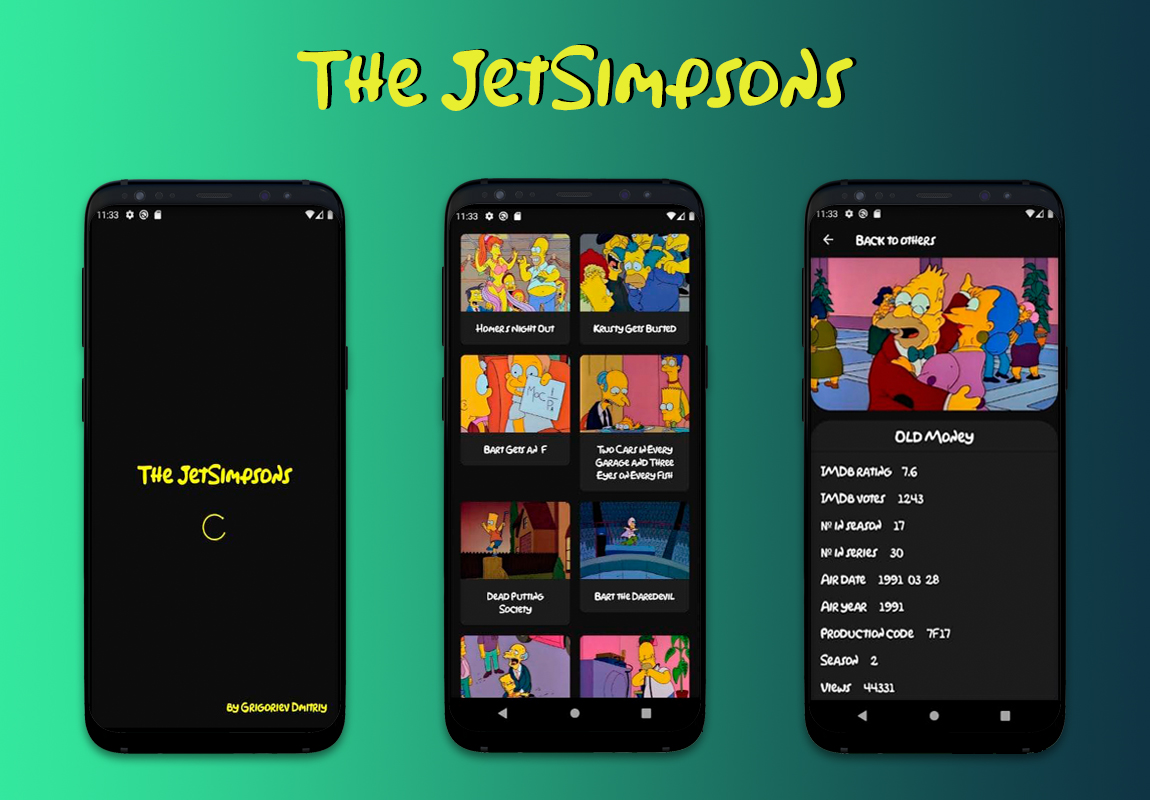
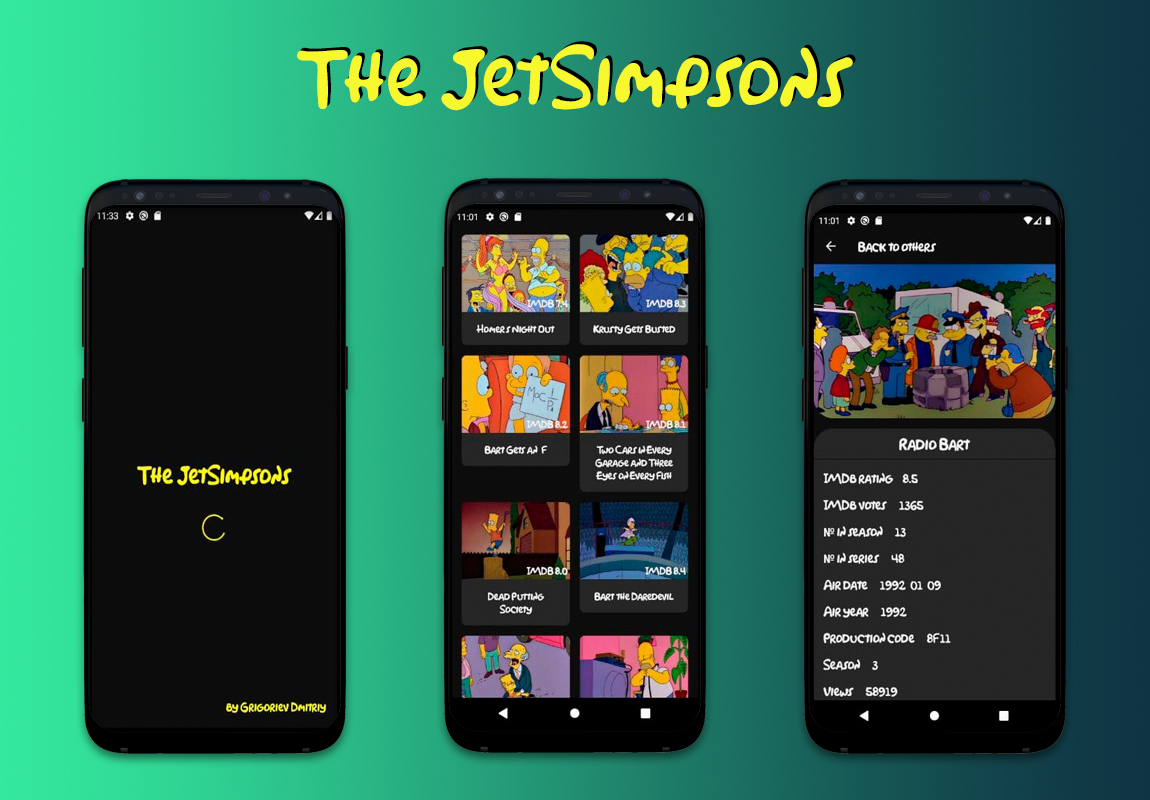
IMDB rating added

diff --git a/app/src/main/java/com/an9ar/jetsimpsons/ui/DSColors.kt b/app/src/main/java/com/an9ar/jetsimpsons/ui/DSColors.kt
@@ -10,13 +10,15 @@ object DSColors {
     val background = Color(0xFFE7E7E7)
     val backgroundReverse = Color(0xFF141414)
     val card = Color(0xFFFFFFFF)
-    val cardReverse = Color(0xFF1E1E1E)
+    val cardReverse = Color(0xFF252525)
     val textAccent = Color(0xFFFeFB1F)
     val text = Color(0xFF192038)
     val textReverse = Color(0xFFEEEEEE)
     val success = Color(0xFF00E096)
     val warning = Color(0xFFFFAA00)
     val error = Color(0xFFFF3D71)
+    val light = Color(0xFFEEEEEE)
+    val dark = Color(0xFF1E1E1E)
 }
 
 interface DSColorPalette {
@@ -28,6 +30,8 @@ interface DSColorPalette {
     val success: Color
     val warning: Color
     val error: Color
+    val light: Color
+    val dark: Color
 
     val materialColors: Colors
 }
@@ -41,6 +45,8 @@ fun dsLightColorPalette(): DSColorPalette = object : DSColorPalette {
     override val success: Color = DSColors.success
     override val warning: Color = DSColors.warning
     override val error: Color = DSColors.error
+    override val light: Color = DSColors.light
+    override val dark: Color = DSColors.dark
 
     override val materialColors: Colors = lightColors(
             primary = DSColors.primary,
@@ -58,6 +64,8 @@ fun dsDarkColorPalette(): DSColorPalette = object : DSColorPalette {
     override val success: Color = DSColors.success
     override val warning: Color = DSColors.warning
     override val error: Color = DSColors.error
+    override val light: Color = DSColors.light
+    override val dark: Color = DSColors.dark
 
     override val materialColors: Colors = darkColors(
             primary = DSColors.primary,

diff --git a/app/src/main/java/com/an9ar/jetsimpsons/EpisodesListScreen.kt b/app/src/main/java/com/an9ar/jetsimpsons/EpisodesListScreen.kt
@@ -52,7 +52,7 @@ fun EpisodeCard(
             modifier = Modifier.clickable(onClick = { navController.navigate("episode/${episode.id}") }).fillMaxWidth()
     ) {
         ConstraintLayout {
-            val (simpsonNameRef, simpsonPhotoRef) = createRefs()
+            val (simpsonNameRef, simpsonPhotoRef, imdbRating) = createRefs()
             GlideImage(
                     data = episode.image_url,
                     fadeIn = true,
@@ -77,6 +77,15 @@ fun EpisodeCard(
                         top.linkTo(simpsonPhotoRef.bottom)
                         start.linkTo(parent.start)
                         end.linkTo(parent.end)
+                    }
+            )
+            Text(
+                    text = "IMDB ${episode.imdb_rating}",
+                    style = DSTheme.typography.textSmallBold,
+                    color = DSTheme.colors.light,
+                    modifier = Modifier.constrainAs(imdbRating) {
+                        bottom.linkTo(simpsonPhotoRef.bottom, 4.dp)
+                        end.linkTo(simpsonPhotoRef.end, 4.dp)
                     }
             )
         }
